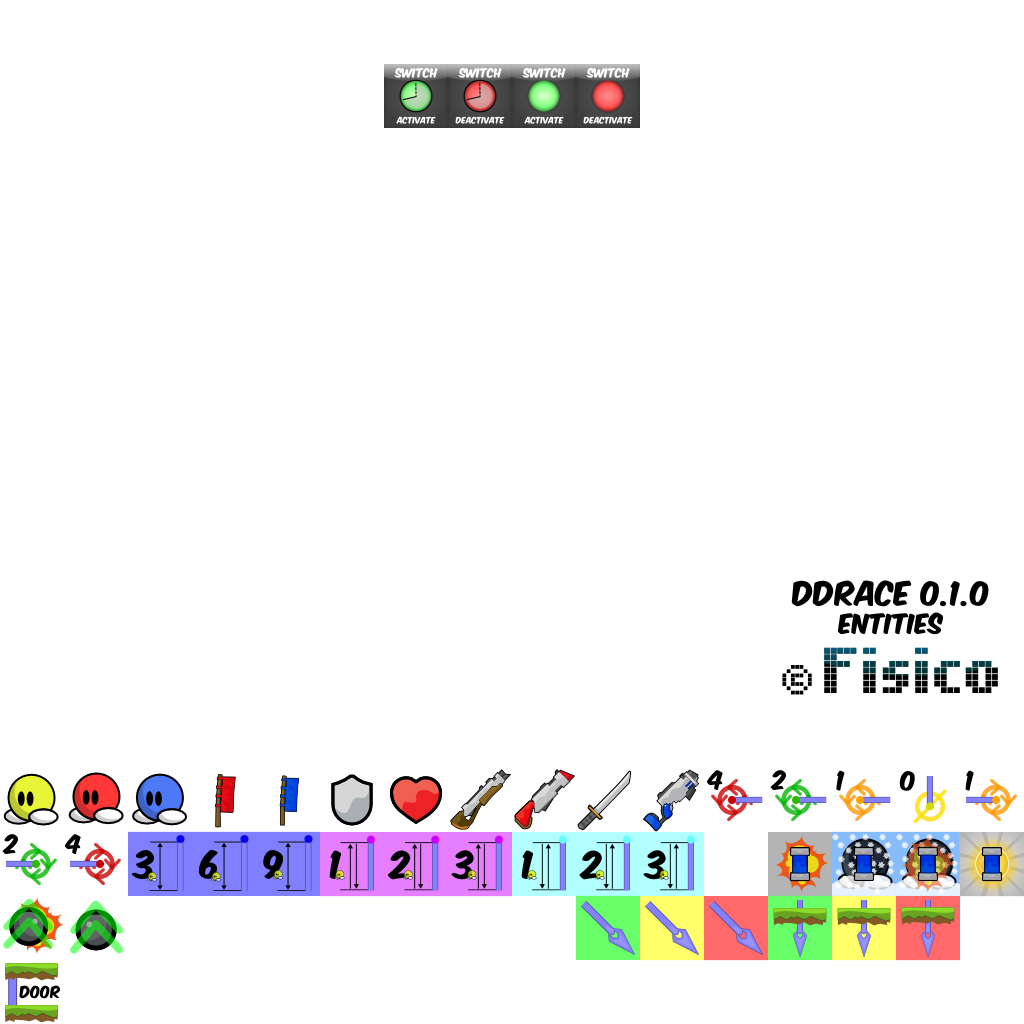
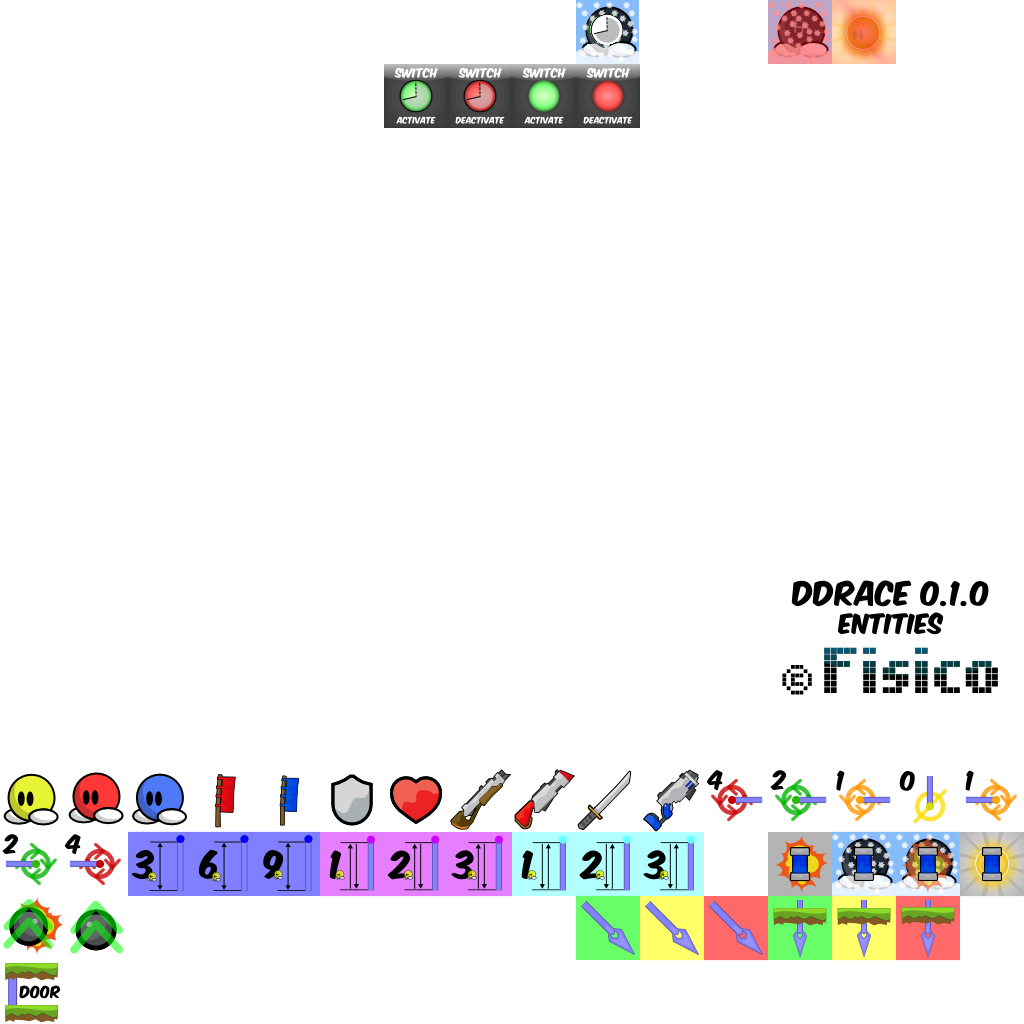
Added Deep freeze/unfreeze to switch layer so that it can be controlled with switches
fixed the freeze command

Added Freeze Tile to switch layer to set freeze tile custom delay

Added sv_freeze_delay to control default freeze time delay

Changed region(s): [[0.75, 0.0, 0.875, 0.0625], [0.5625, 0.0, 0.625, 0.0625]]

diff --git a/src/game/server/entities/character.cpp b/src/game/server/entities/character.cpp
@@ -766,8 +766,10 @@ void CCharacter::Tick()
 		m_Input.m_Hook = 0;
 
 		//m_Input.m_Fire = 0;
-		if (m_FreezeTime == 1) {
+		if (m_FreezeTime == 1)
+		{
 			UnFreeze();
+			m_pPlayer->m_RconFreeze = false;
 		}
 	}
 	m_Core.m_Input = m_Input;
@@ -1070,7 +1072,7 @@ void CCharacter::HandleTiles(int Index)
 	}
 	if(((m_TileIndex == TILE_FREEZE) || (m_TileFIndex == TILE_FREEZE)) && !m_Super && !m_DeepFreeze)
 	{
-		Freeze(Server()->TickSpeed()*3);
+		Freeze();
 	}
 	else if(((m_TileIndex == TILE_UNFREEZE) || (m_TileFIndex == TILE_UNFREEZE)) && !m_DeepFreeze)
 	{
@@ -1155,6 +1157,18 @@ void CCharacter::HandleTiles(int Index)
 		GameServer()->Collision()->m_pSwitchers[GameServer()->Collision()->GetSwitchNumber(MapIndex)].m_Status[Team()] = false;
 		GameServer()->Collision()->m_pSwitchers[GameServer()->Collision()->GetSwitchNumber(MapIndex)].m_EndTick[Team()] = 0;
 		GameServer()->Collision()->m_pSwitchers[GameServer()->Collision()->GetSwitchNumber(MapIndex)].m_Type[Team()] = TILE_SWITCHCLOSE;
+	}
+	else if(GameServer()->Collision()->IsSwitch(MapIndex) == TILE_FREEZE && Team() != TEAM_SUPER)
+	{
+		Freeze(GameServer()->Collision()->GetSwitchDelay(MapIndex));
+	}
+	else if(GameServer()->Collision()->IsSwitch(MapIndex) == TILE_DFREEZE && Team() != TEAM_SUPER && GameServer()->Collision()->m_pSwitchers[GameServer()->Collision()->GetSwitchNumber(MapIndex)].m_Status[Team()])
+	{
+		m_DeepFreeze = true;
+	}
+	else if(GameServer()->Collision()->IsSwitch(MapIndex) == TILE_DUNFREEZE && Team() != TEAM_SUPER && GameServer()->Collision()->m_pSwitchers[GameServer()->Collision()->GetSwitchNumber(MapIndex)].m_Status[Team()])
+	{
+		m_DeepFreeze = false;
 	}
 	int z = GameServer()->Collision()->IsTeleport(MapIndex);
 	if(z && ((CGameControllerDDRace*)GameServer()->m_pController)->m_TeleOuts[z-1].size())
@@ -1317,20 +1331,20 @@ void CCharacter::TickDefered()
 	}
 }
 
-bool CCharacter::Freeze(int Time)
+bool CCharacter::Freeze(int Seconds)
 {
-	if ((Time <= 1 || m_Super || m_FreezeTime == -1) && Time != -1)
+	if ((Seconds <= 0 || m_Super || m_FreezeTime == -1 || m_FreezeTime > Seconds * Server()->TickSpeed()) && Seconds != -1)
 		 return false;
-	if (m_FreezeTick < Server()->Tick() - Server()->TickSpeed())  		 
+	if (m_FreezeTick < Server()->Tick() - Server()->TickSpeed() || Seconds == -1)
 	{
-		for(int i=0;i<NUM_WEAPONS;i++)
+		for(int i = 0; i < NUM_WEAPONS; i++)
 			if(m_aWeapons[i].m_Got)
 			 {
 				 m_aWeapons[i].m_Ammo = 0;
 			 }
-		m_Armor=0;
-		m_FreezeTime=Time;
-		m_FreezeTick=Server()->Tick();
+		m_Armor = 0;
+		m_FreezeTime = Seconds == -1 ? Seconds : Seconds * Server()->TickSpeed();
+		m_FreezeTick = Server()->Tick();
 		return true;
 	}
 	return false;
@@ -1338,28 +1352,12 @@ bool CCharacter::Freeze(int Time)
 
 bool CCharacter::Freeze()
 {
-	int Time = Server()->TickSpeed()*3;
-	if (Time <= 1 || m_Super || m_FreezeTime == -1)
-		 return false;
-	if (m_FreezeTick < Server()->Tick() - Server()->TickSpeed())
-	{
-		for(int i=0;i<NUM_WEAPONS;i++)
-			if(m_aWeapons[i].m_Got)
-			 {
-				 m_aWeapons[i].m_Ammo = 0;
-			 }
-		m_Armor=0;
-		m_Ninja.m_ActivationTick = Server()->Tick();
-		m_FreezeTime=Time;
-		m_FreezeTick=Server()->Tick();
-		return true;
-	}
-	return false;
+	return Freeze(g_Config.m_SvFreezeDelay);
 }
 
 bool CCharacter::UnFreeze()
 {
-	if (m_FreezeTime>0)
+	if (m_FreezeTime > 0)
 	{
 		m_Armor=10;
 		for(int i=0;i<NUM_WEAPONS;i++)

diff --git a/src/game/server/ddracecommands.cpp b/src/game/server/ddracecommands.cpp
@@ -441,24 +441,32 @@ void CGameContext::ConTimerReStart(IConsole::IResult *pResult, void *pUserData, 
 void CGameContext::ConFreeze(IConsole::IResult *pResult, void *pUserData, int ClientId)
 {
 	CGameContext *pSelf = (CGameContext *)pUserData;
-	int time=-1;
+	int Seconds = -1;
 	int Victim = pResult->GetVictim();
 
 	char buf[128];
 
-	if(pResult->NumArguments() >= 1)
-		time = clamp(pResult->GetInteger(1), -1, 29999);
+	if(pResult->NumArguments())
+		Seconds = clamp(pResult->GetInteger(0), -2, 9999);
 	
-	CCharacter* chr = pSelf->GetPlayerChar(Victim);
-	if(!chr)
+	CCharacter* pChr = pSelf->GetPlayerChar(Victim);
+	if(!pChr)
 		return;
 	
 	if(pSelf->m_apPlayers[Victim])
 	{
-		chr->Freeze(((time!=0&&time!=-1)?(pSelf->Server()->TickSpeed()*time):(-1)));
-		chr->m_pPlayer->m_RconFreeze = true;
+		pChr->Freeze(Seconds);
+		pChr->m_pPlayer->m_RconFreeze = Seconds != -2;
 		CServer* pServ = (CServer*)pSelf->Server();
-		str_format(buf, sizeof(buf), "'%s' ClientId=%d has been Frozen.", pServ->ClientName(ClientId), Victim);
+		if(Seconds >= 0)
+			str_format(buf, sizeof(buf), "'%s' ClientId=%d has been Frozen for %d.", pServ->ClientName(ClientId), Victim, Seconds);
+		else if(Seconds == -2)
+		{
+			pChr->m_DeepFreeze = true;
+			str_format(buf, sizeof(buf), "'%s' ClientId=%d has been Deep Frozen.", pServ->ClientName(ClientId), Victim);
+		}
+		else
+			str_format(buf, sizeof(buf), "'%s' ClientId=%d is Frozen until you unfreeze him.", pServ->ClientName(ClientId), Victim);
 		pSelf->Console()->PrintResponse(IConsole::OUTPUT_LEVEL_STANDARD, "info", buf);
 	}
 
@@ -468,13 +476,24 @@ void CGameContext::ConUnFreeze(IConsole::IResult *pResult, void *pUserData, int 
 {
 	CGameContext *pSelf = (CGameContext *)pUserData;
 	int Victim = pResult->GetVictim();
-
+	static bool Warning = false;
 	char buf[128];
-	CCharacter* chr = pSelf->GetPlayerChar(Victim);
-	if(!chr)
+	CCharacter* pChr = pSelf->GetPlayerChar(Victim);
+	if(!pChr)
 		return;
-	chr->m_FreezeTime=2;
-	chr->m_pPlayer->m_RconFreeze = false;
+	if(pChr->m_DeepFreeze && !Warning)
+	{
+		pSelf->Console()->PrintResponse(IConsole::OUTPUT_LEVEL_STANDARD, "warning", "This client is deeply frozen, repeat the command to defrost him.");
+		Warning = true;
+		return;
+	}
+	if(pChr->m_DeepFreeze && Warning)
+	{
+		pChr->m_DeepFreeze = false;
+		Warning = false;
+	}
+	pChr->m_FreezeTime = 2;
+	pChr->m_pPlayer->m_RconFreeze = false;
 	CServer* pServ = (CServer*)pSelf->Server();
 	str_format(buf, sizeof(buf), "'%s' ClientId=%d has been defrosted.", pServ->ClientName(ClientId), Victim);
 	pSelf->Console()->PrintResponse(IConsole::OUTPUT_LEVEL_STANDARD, "info", buf);

diff --git a/src/game/editor/ed_layer_tiles.cpp b/src/game/editor/ed_layer_tiles.cpp
@@ -1101,7 +1101,7 @@ void CLayerSwitch::BrushDraw(CLayer *pBrush, float wx, float wy)
 			if(fx<0 || fx >= m_Width || fy < 0 || fy >= m_Height)
 				continue;
 
-			if((l->m_pTiles[y*l->m_Width+x].m_Index >= (ENTITY_ARMOR_1 + ENTITY_OFFSET) && l->m_pTiles[y*l->m_Width+x].m_Index <= (ENTITY_DOOR + ENTITY_OFFSET)) || l->m_pTiles[y*l->m_Width+x].m_Index == TILE_SWITCHOPEN || l->m_pTiles[y*l->m_Width+x].m_Index == TILE_SWITCHCLOSE || l->m_pTiles[y*l->m_Width+x].m_Index == TILE_SWITCHTIMEDOPEN || l->m_pTiles[y*l->m_Width+x].m_Index == TILE_SWITCHTIMEDCLOSE)
+			if((l->m_pTiles[y*l->m_Width+x].m_Index >= (ENTITY_ARMOR_1 + ENTITY_OFFSET) && l->m_pTiles[y*l->m_Width+x].m_Index <= (ENTITY_DOOR + ENTITY_OFFSET)) || l->m_pTiles[y*l->m_Width+x].m_Index == TILE_SWITCHOPEN || l->m_pTiles[y*l->m_Width+x].m_Index == TILE_SWITCHCLOSE || l->m_pTiles[y*l->m_Width+x].m_Index == TILE_SWITCHTIMEDOPEN || l->m_pTiles[y*l->m_Width+x].m_Index == TILE_SWITCHTIMEDCLOSE || l->m_pTiles[y*l->m_Width+x].m_Index == TILE_FREEZE || l->m_pTiles[y*l->m_Width+x].m_Index == TILE_DFREEZE || l->m_pTiles[y*l->m_Width+x].m_Index == TILE_DUNFREEZE)
 			{
 				if(m_pEditor->m_SwitchNum != l->m_SwitchNumber || m_pEditor->m_SwitchDelay != l->m_SwitchDelay)
 				{
@@ -1142,6 +1142,17 @@ void CLayerSwitch::BrushDraw(CLayer *pBrush, float wx, float wy)
 				m_pSwitchTile[fy*m_Width+fx].m_Flags = 0;
 				m_pSwitchTile[fy*m_Width+fx].m_Delay = 0;
 				m_pTiles[fy*m_Width+fx].m_Index = 0;
+			}
+
+			if(l->m_pTiles[y*l->m_Width+x].m_Index == TILE_FREEZE)
+			{
+				m_pSwitchTile[fy*m_Width+fx].m_Number = 0;
+				m_pSwitchTile[fy*m_Width+fx].m_Flags = 0;
+			}
+			else if(l->m_pTiles[y*l->m_Width+x].m_Index == TILE_DFREEZE || l->m_pTiles[y*l->m_Width+x].m_Index == TILE_DUNFREEZE)
+			{
+				m_pSwitchTile[fy*m_Width+fx].m_Flags = 0;
+				m_pSwitchTile[fy*m_Width+fx].m_Delay = 0;
 			}
 		}
 }

diff --git a/src/game/collision.cpp b/src/game/collision.cpp
@@ -89,7 +89,7 @@ void CCollision::Init(class CLayers *pLayers)
 			Index = m_pSwitch[i].m_Type;
 			if(Index <= TILE_NPH)
 			{
-				if(Index >= TILE_SWITCHTIMEDOPEN && Index <= TILE_SWITCHCLOSE)
+				if(Index >= TILE_FREEZE && Index <= TILE_SWITCHCLOSE)
 					m_pSwitch[i].m_Type = Index;
 				else
 					m_pSwitch[i].m_Type = 0;
@@ -429,7 +429,7 @@ int CCollision::IsSwitch(int Index)
 	if(!m_pSwitch)
 		return false;
 
-	if(m_pSwitch[Index].m_Type > 0 && m_pSwitch[Index].m_Number > 0)
+	if(m_pSwitch[Index].m_Type > 0)
 		return m_pSwitch[Index].m_Type;
 
 	return 0;
@@ -457,7 +457,7 @@ int CCollision::GetSwitchDelay(int Index)
 	if(!m_pSwitch)
 		return false;
 
-	if(m_pSwitch[Index].m_Type > 0 && m_pSwitch[Index].m_Number > 0)
+	if(m_pSwitch[Index].m_Type > 0)
 		return m_pSwitch[Index].m_Delay;
 
 	return 0;

diff --git a/src/engine/shared/config_variables.h b/src/engine/shared/config_variables.h
@@ -108,6 +108,7 @@ MACRO_CONFIG_INT(SvServerTest, sv_server_test, 1, 0, 1, CFGFLAG_SERVER, "Whether
 #endif
 
 MACRO_CONFIG_INT(SvCheats, sv_cheats, 0, 0, 1, CFGFLAG_SERVER, "Turns cheats on/off", 4)
+MACRO_CONFIG_INT(SvFreezeDelay, sv_freeze_delay, 3, 1, 30, CFGFLAG_SERVER, "How many seconds the players will remain frozen (applies to all except delayed freeze in switch layer & deepfreeze)", 4)
 MACRO_CONFIG_INT(ClDDRaceCheats, cl_race_cheats, 0, 0, 1, CFGFLAG_CLIENT|CFGFLAG_SAVE, "",0)
 MACRO_CONFIG_INT(SvCheatTime, sv_cheattime, 0, 0, 1, CFGFLAG_SERVER, "Whether the time of players will be stopped on cheating or not", 4)
 MACRO_CONFIG_INT(SvEndlessSuperHook, sv_endless_super_hook, 0, 0, 1, CFGFLAG_SERVER, "Endless hook for super players on/off", 4)

diff --git a/src/game/server/entities/plasma.cpp b/src/game/server/entities/plasma.cpp
@@ -34,7 +34,7 @@ bool CPlasma::HitCharacter()
 		return false;
 
 	if(Hit->Team() != m_ResponsibleTeam) return false;
-	m_Freeze ? Hit->Freeze(Server()->TickSpeed()*3) : Hit->UnFreeze();
+	m_Freeze ? Hit->Freeze() : Hit->UnFreeze();
 	if(m_Explosive)
 		GameServer()->CreateExplosion(m_Pos, -1, WEAPON_GRENADE, true, m_ResponsibleTeam, Hit->Teams()->TeamMask(m_ResponsibleTeam));
 	GameServer()->m_World.DestroyEntity(this);

diff --git a/src/game/server/entities/projectile.cpp b/src/game/server/entities/projectile.cpp
@@ -130,7 +130,7 @@ void CProjectile::Tick()
 			(m_Owner != -1)? TeamMask : -1);
 		}
 		else if(TargetChr && m_Freeze && ((m_Layer == LAYER_SWITCH && GameServer()->Collision()->m_pSwitchers[m_Number].m_Status[TargetChr->Team()]) || m_Layer != LAYER_SWITCH))
-			TargetChr->Freeze(Server()->TickSpeed()*3);
+			TargetChr->Freeze();
 		if(Collide && m_Bouncing != 0)
 		{
 			m_StartTick = Server()->Tick();

diff --git a/src/game/server/entities/light.cpp b/src/game/server/entities/light.cpp
@@ -34,7 +34,7 @@ bool CLight::HitCharacter()
 	for(std::list < CCharacter * >::iterator i = HitCharacters.begin(); i != HitCharacters.end(); i++) {
 		CCharacter * Char = *i;
 		if(m_Layer == LAYER_SWITCH && !GameServer()->Collision()->m_pSwitchers[m_Number].m_Status[Char->Team()]) continue;
-		Char->Freeze(Server()->TickSpeed()*3);
+		Char->Freeze();
 	}
 	return true;
 }
